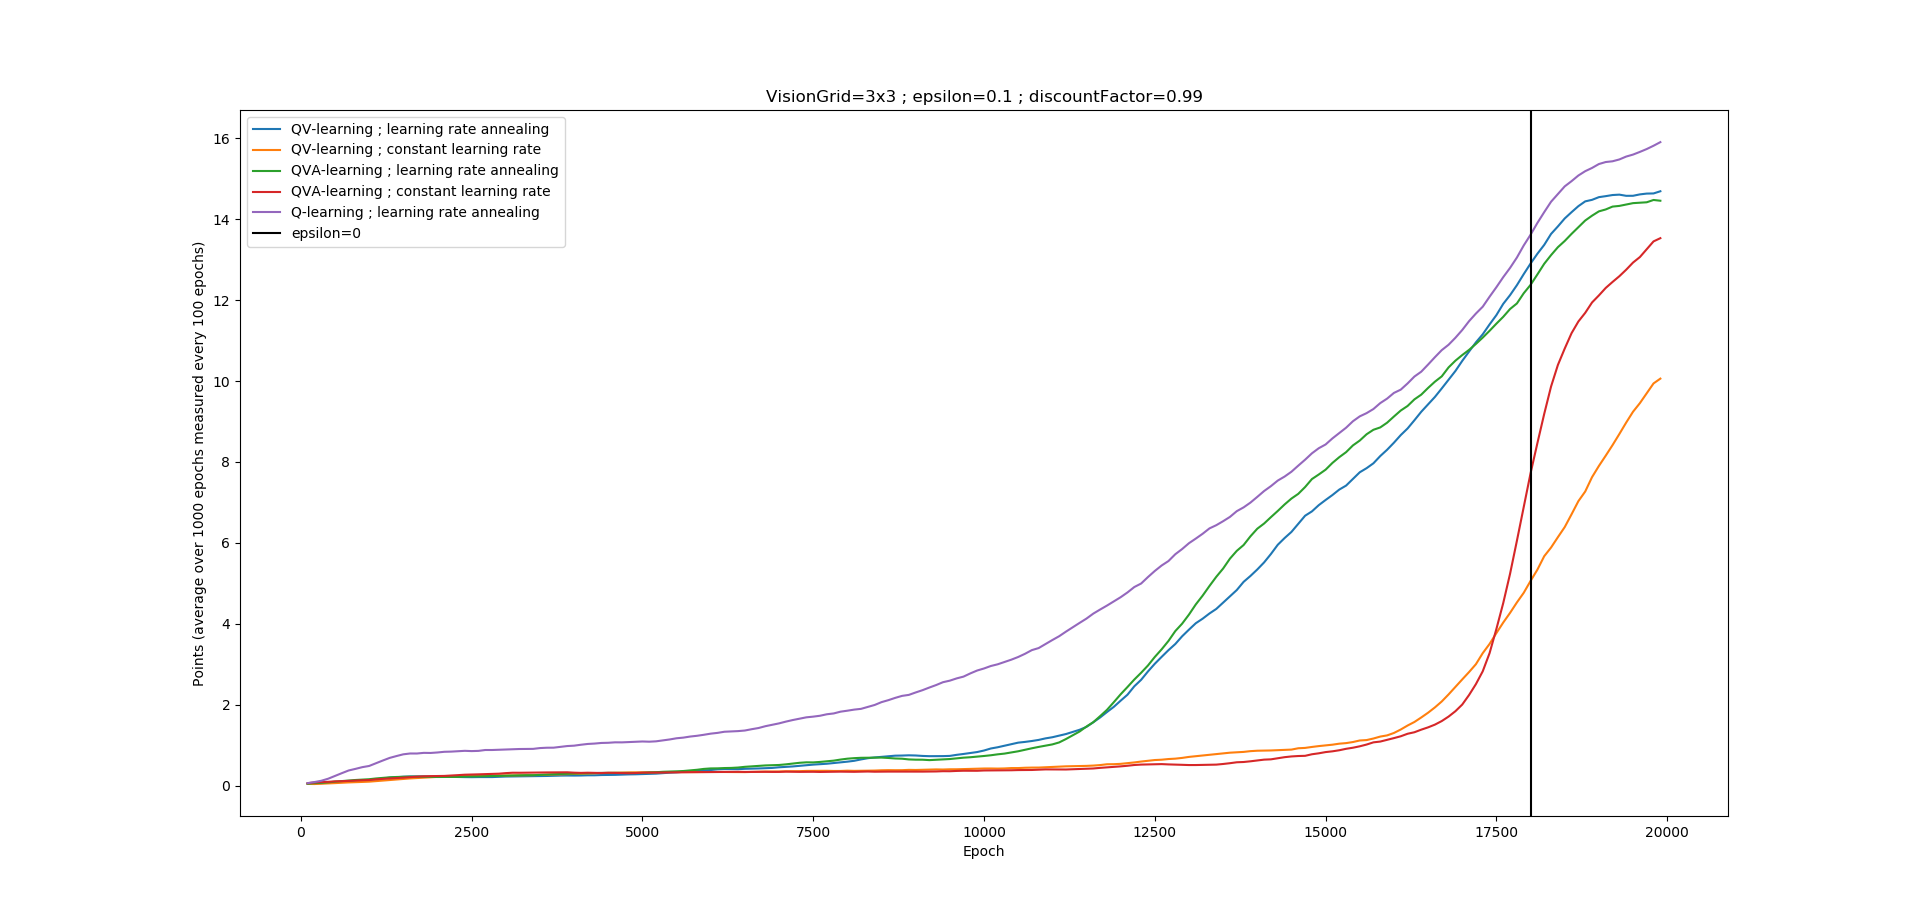
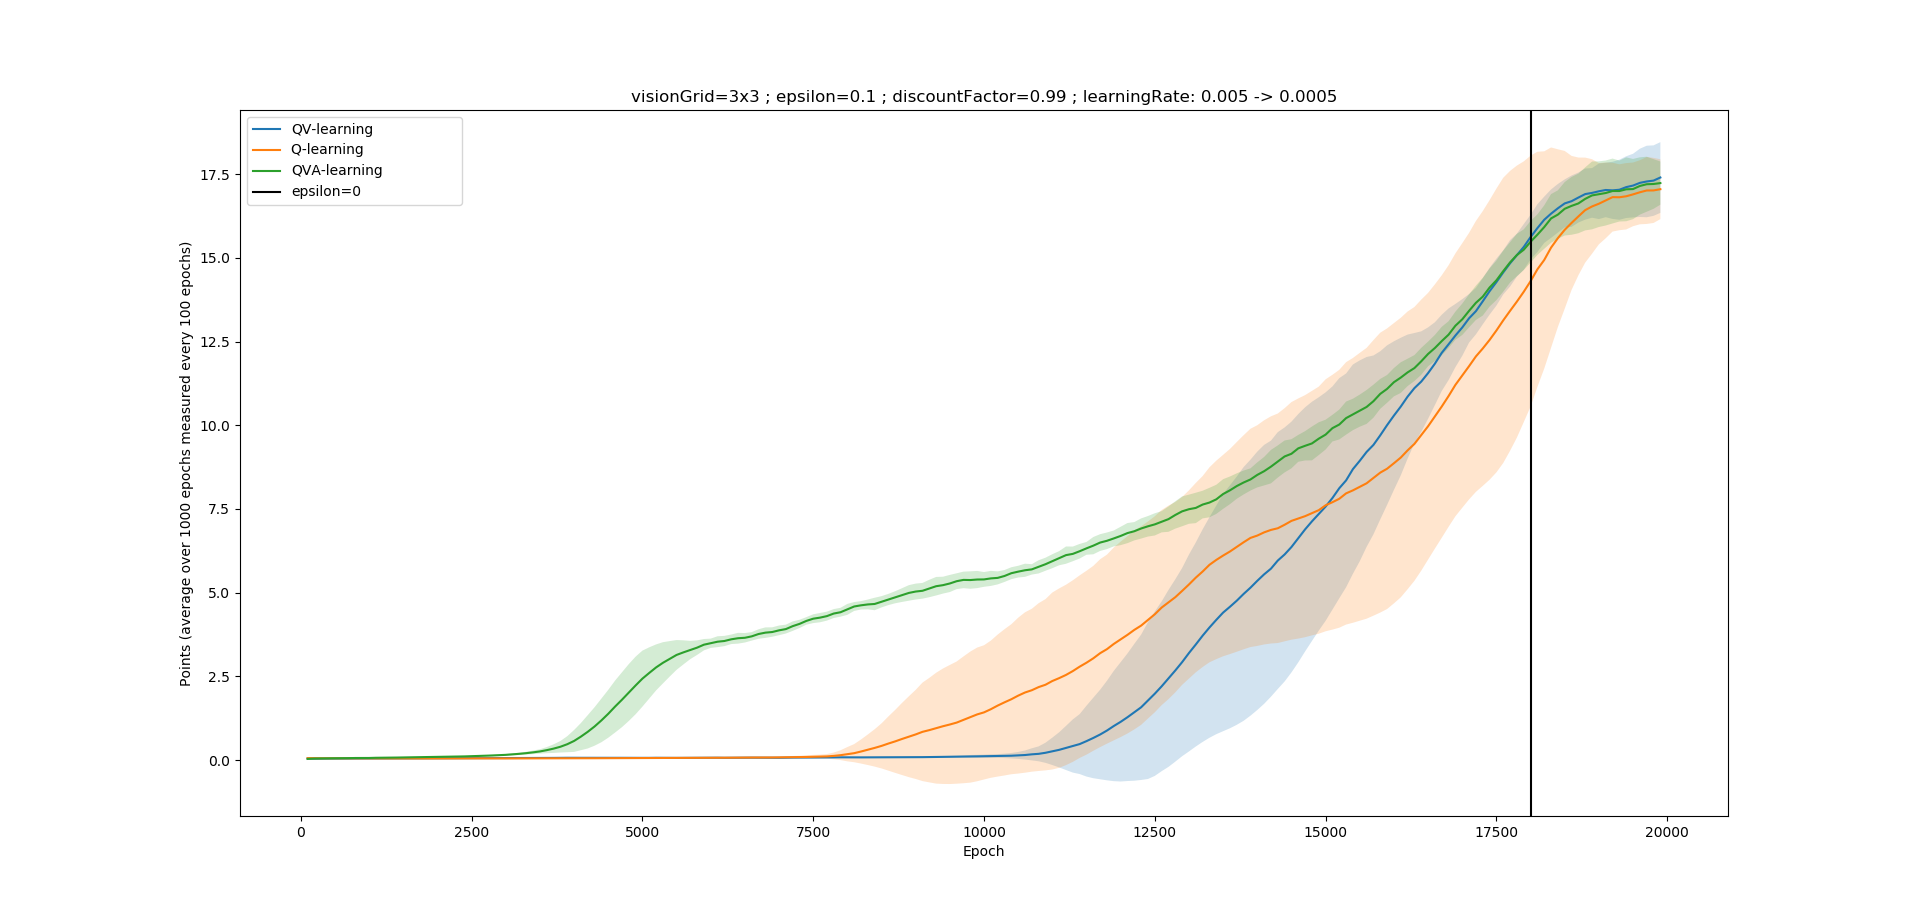
more tests

diff --git a/reinforcementLearning_snake/learning/algorithms.py b/reinforcementLearning_snake/learning/algorithms.py
@@ -54,9 +54,12 @@ def q_learning(timestep, model):
     model.mlp.fit(state.reshape(1,2 * param.vision_size**2 + 2),target_output,batch_size=1, epochs=1, callbacks=callback, verbose=0)
     state = new_state
     
-    # if game_state.time_stuck > param.game_size**2:
-    #     got_stuck += 1
-    #     on_death()
+    if game_state.time_stuck > 2000:
+        got_stuck += 1
+        stats.first_q_value.append(q_values[0][0])
+        stats.cumulative_rewards.append(cumulative_reward)
+        cumulative_reward = 0
+        on_death()
     
     #toggle for visualisation 
     # if param.epoch >= param.max_epochs:
@@ -94,14 +97,18 @@ def qv_learning(timestep, q_model, v_model):
     q_model.mlp.fit(state.reshape(1,2 * param.vision_size**2 + 2), target_output, batch_size=1, epochs=1, callbacks=callback, verbose=0)
     state = new_state
     
-    # if game_state.time_stuck > param.game_size**2:
-    #     got_stuck += 1
-    #     on_death()
+    if game_state.time_stuck > 2000:
+        got_stuck += 1
+        stats.first_q_value.append(q_values[0][0])
+        stats.cumulative_rewards.append(cumulative_reward)
+        cumulative_reward = 0
+        on_death()
 
 def qva_learning(timestep, q_model, v_model, a_model):
     global state
     global game_state
     global got_stuck
+    global cumulative_reward
     # global v_value
     
     if (param.epoch == 0): 
@@ -118,6 +125,9 @@ def qva_learning(timestep, q_model, v_model, a_model):
     
     if reward == param.reward_dead: #terminal state
         update = np.array([[reward]])
+        stats.first_q_value.append(q_values[0][0])
+        stats.cumulative_rewards.append(cumulative_reward)
+        cumulative_reward = 0
         on_death()
     else: 
         update = reward + param.discount_factor * new_vValue
@@ -133,9 +143,12 @@ def qva_learning(timestep, q_model, v_model, a_model):
     state = new_state 
     # v_value = new_vValue
     
-    # if game_state.time_stuck > param.game_size**2:
-    #     got_stuck += 1
-    #     on_death()
+    if game_state.time_stuck > 2000:
+        got_stuck += 1
+        stats.first_q_value.append(q_values[0][0])
+        stats.cumulative_rewards.append(cumulative_reward)
+        cumulative_reward = 0
+        on_death()
 
 def qvmax_learning(timestep, q_model, v_model):
     global state

diff --git a/reinforcementLearning_snake/stats.py b/reinforcementLearning_snake/stats.py
@@ -78,15 +78,17 @@ def plot_directory(directory, epochs, epsilon0):
         filepath = directory + filename
         average = average_list_file(filepath)
         std = get_standard_deviation(filepath)
+    
         # plt.errorbar(x_axis, average, yerr=std, capsize=2, label=filename)
         plt.plot(x_axis, average, label=filename)
+        plt.fill_between(x_axis, [a_i - s_i for a_i, s_i in zip(average,std)],[a_i + s_i for a_i, s_i in zip(average,std)], alpha=0.2)
         # with open(filepath, "r") as file:
         #     model = eval(file.readline())
         # plt.plot(x_axis, model, label=filename)
     plt.xlabel("Epoch")
     plt.ylabel("Points (average over 1000 epochs measured every 100 epochs)")
     plt.axvline(epsilon0, 0, 16, label='epsilon=0', c="BLACK")
-    plt.legend()
+    plt.legend(bbox_to_anchor=(0.0, 1), loc=2)
     plt.show()
 
 def rewards():

diff --git a/reinforcementLearning_snake/snakeGame/util.py b/reinforcementLearning_snake/snakeGame/util.py
@@ -34,10 +34,14 @@ def save_model(model):
     with open(filepath,"a") as file: 
         file.write(str(stats.average_points))
         file.write("\n")
-    savefile = str(param.algorithm) + "first_q_values"
+    filepath += "_last"
+    with open(filepath,"w") as file: 
+        file.write(str(stats.average_points))
+        file.write("\n")
+    savefile = "first_q_values" + str(param.algorithm) +  str(param.vision_size)
     with open(savefile, "w") as file: 
         file.write(str(stats.first_q_value))
-    savefile = str(param.algorithm) + "_reward"
+    savefile = "reward"  + str(param.algorithm) +  str(param.vision_size)
     with open(savefile, "w") as file: 
         file.write(str(stats.cumulative_rewards)) 
         
